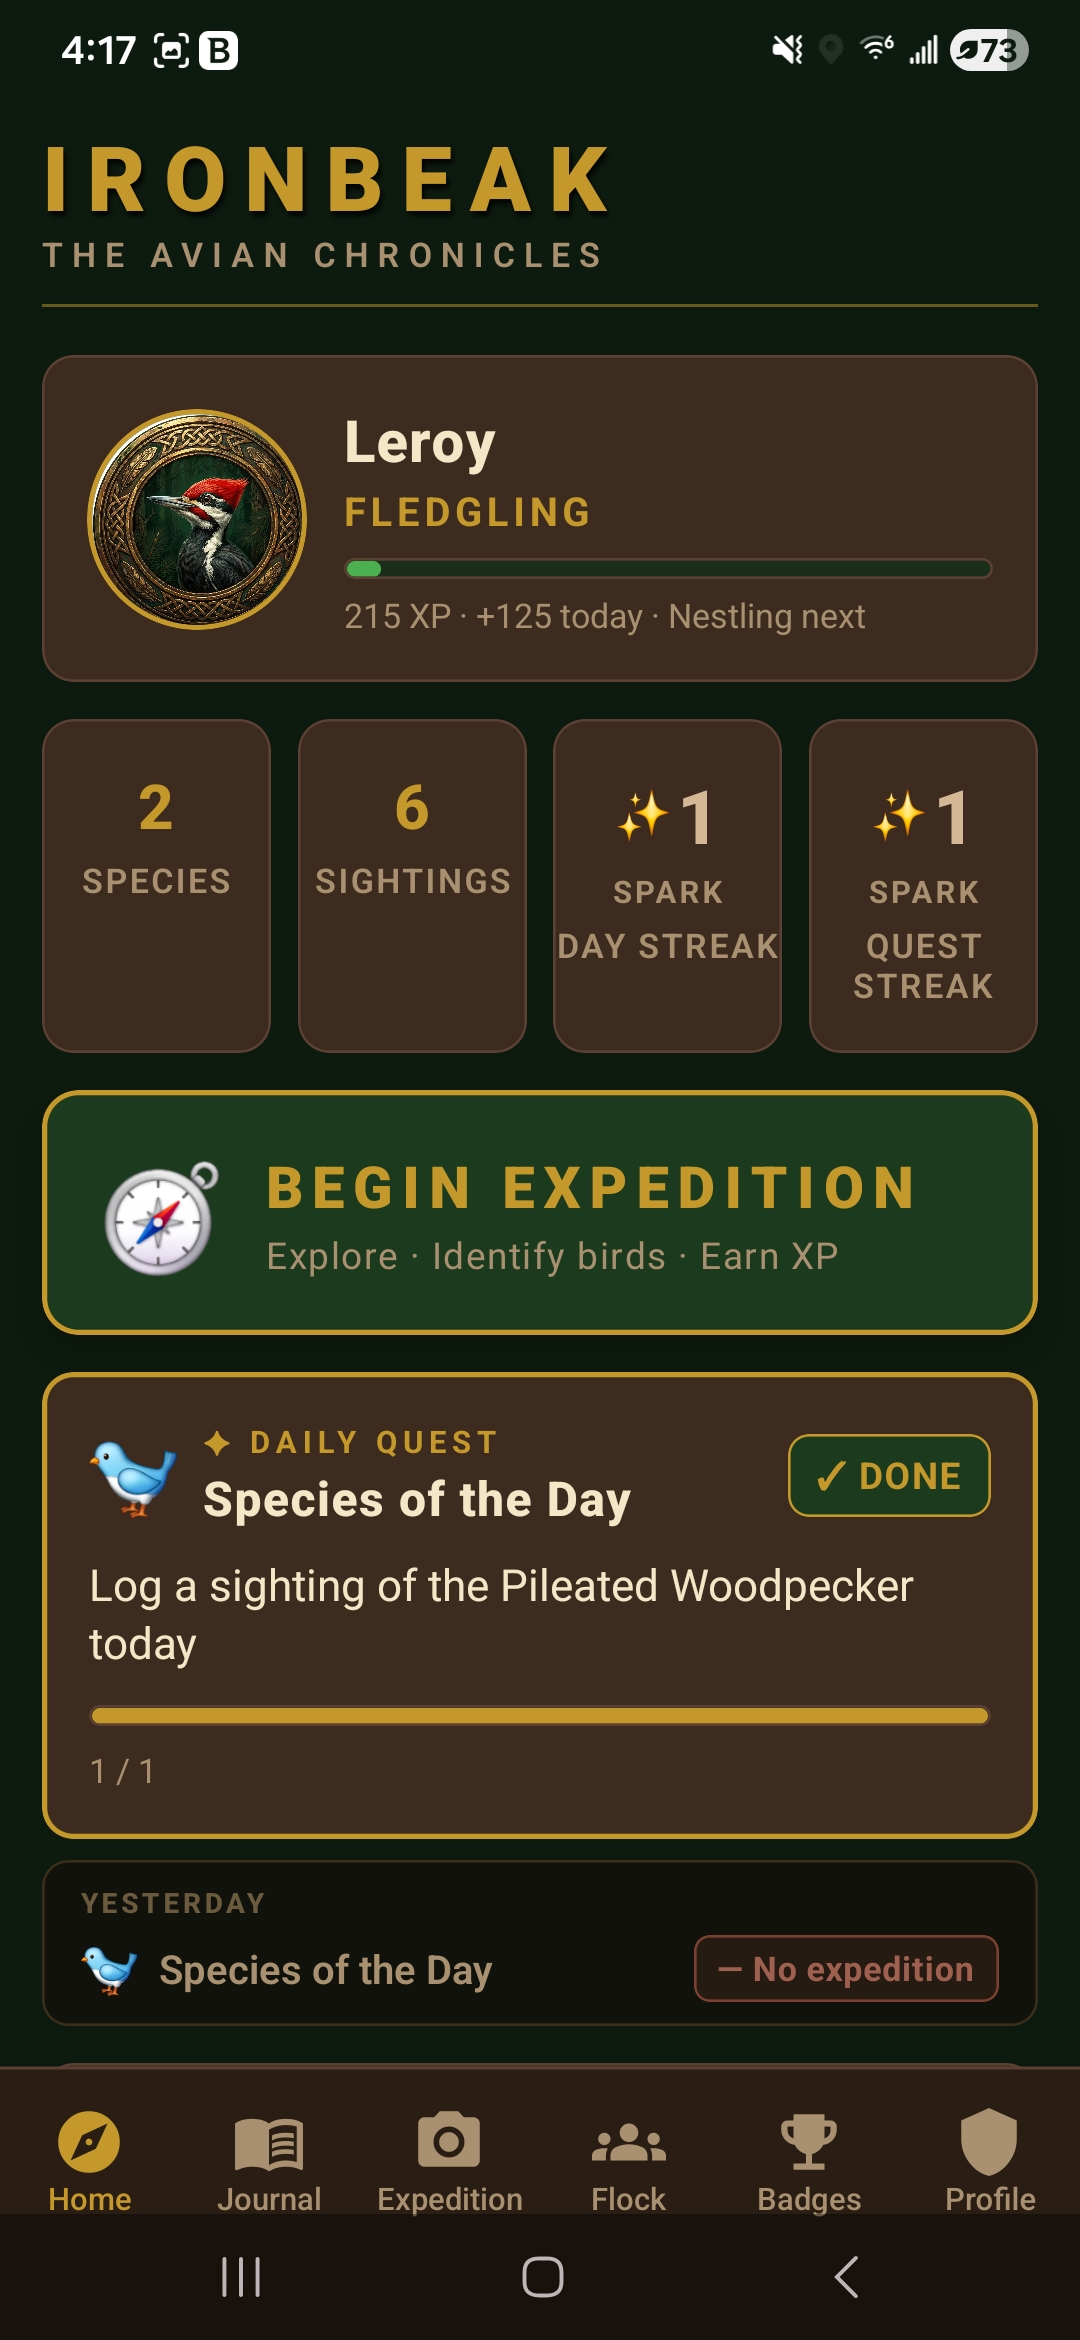
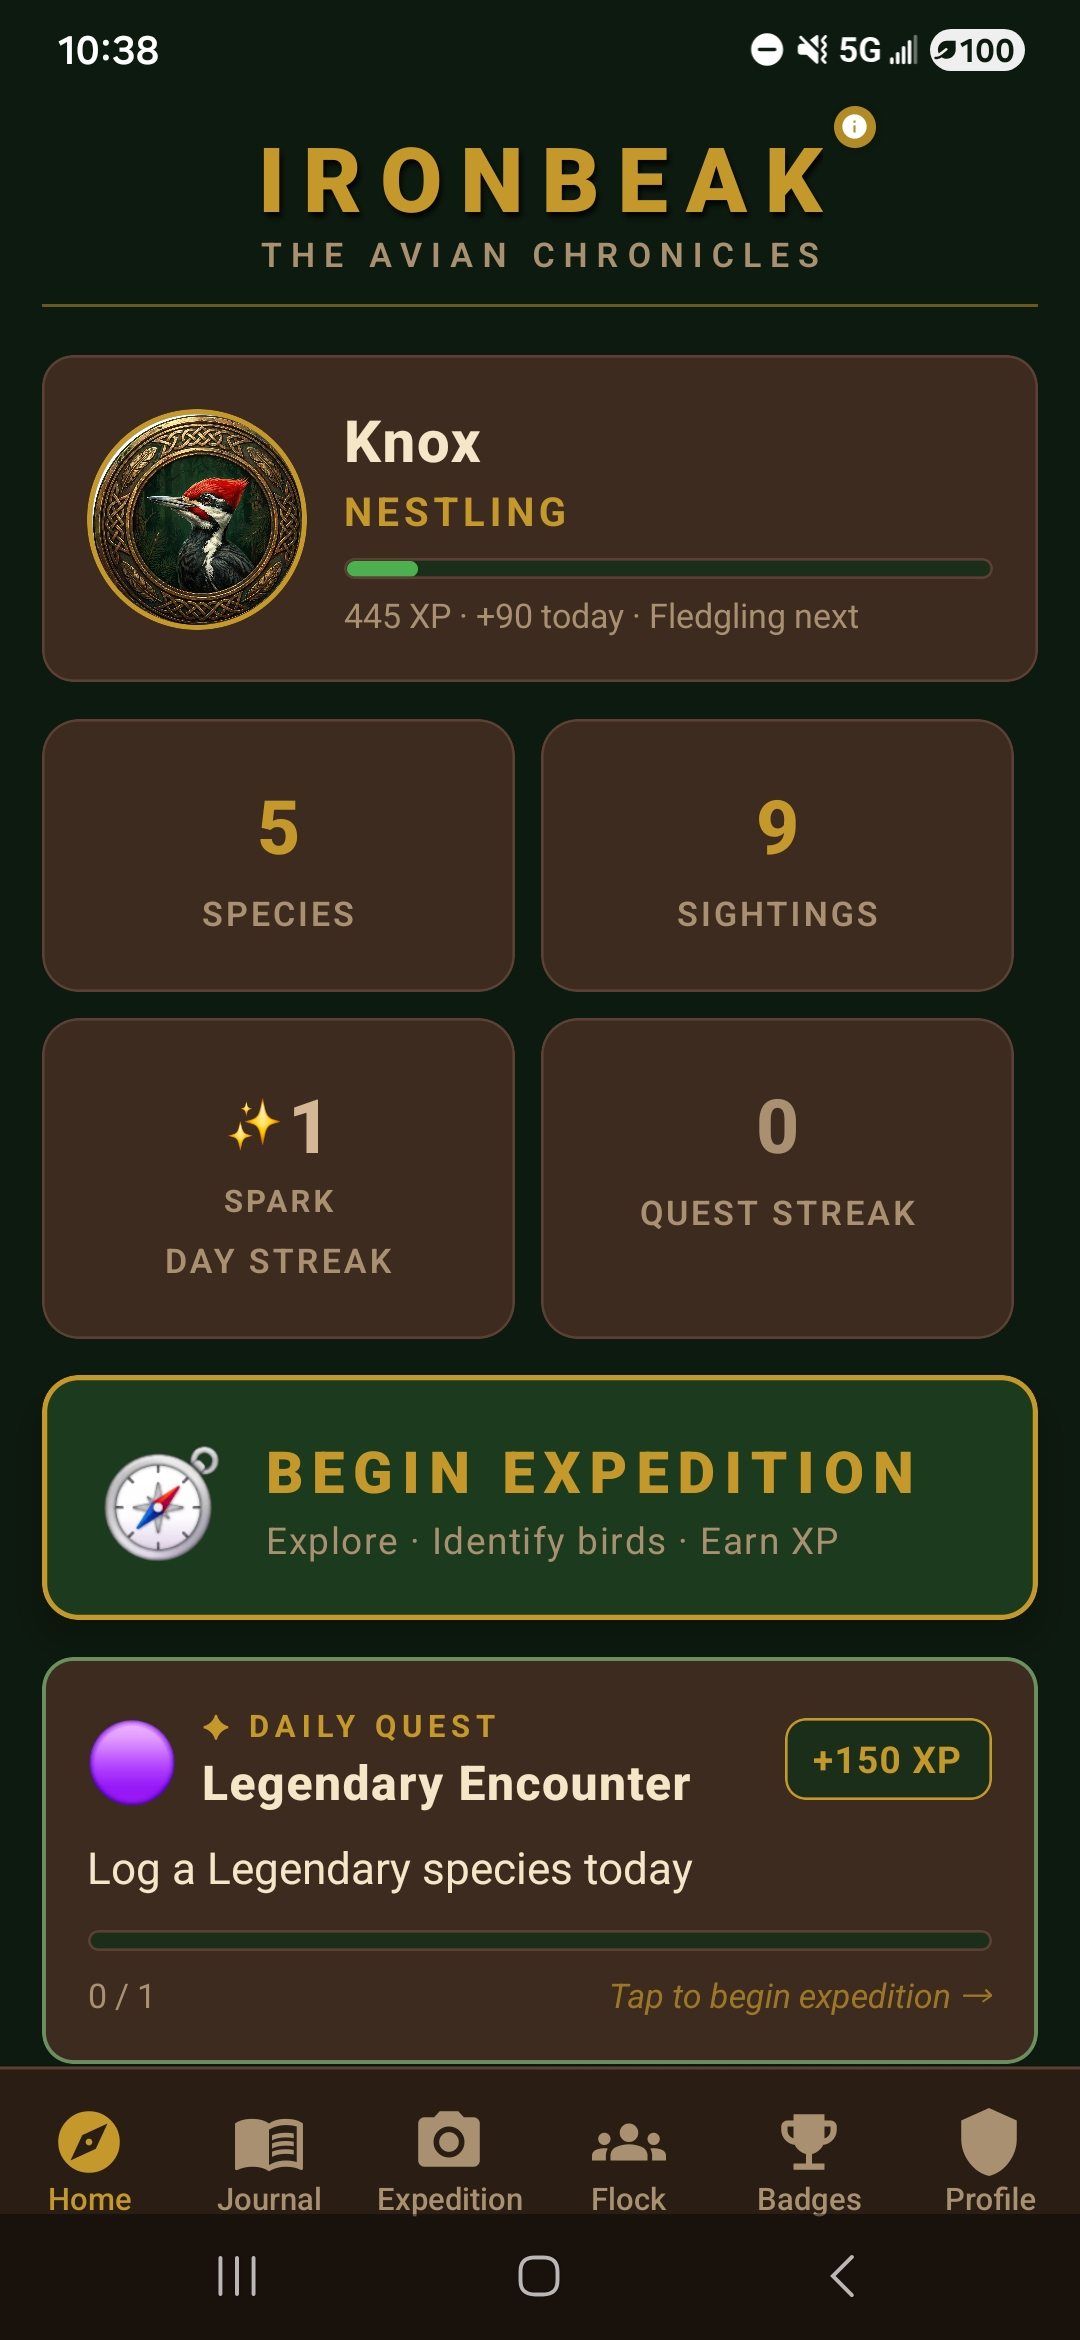
feat: update screenshots to real device shots, add Ask Witters screenshot

diff --git a/ironbeak/index.html b/ironbeak/index.html
@@ -459,6 +459,10 @@
         <p class="phone-caption">Field Journal</p>
       </div>
       <div class="phone-frame">
+        <img src="images/screen-witters.jpg" alt="Ask Witters AI bird identification" loading="lazy" />
+        <p class="phone-caption">Ask Witters</p>
+      </div>
+      <div class="phone-frame">
         <img src="images/screen-home.jpg" alt="IronBeak home screen" loading="lazy" />
         <p class="phone-caption">Daily Quests</p>
       </div>
